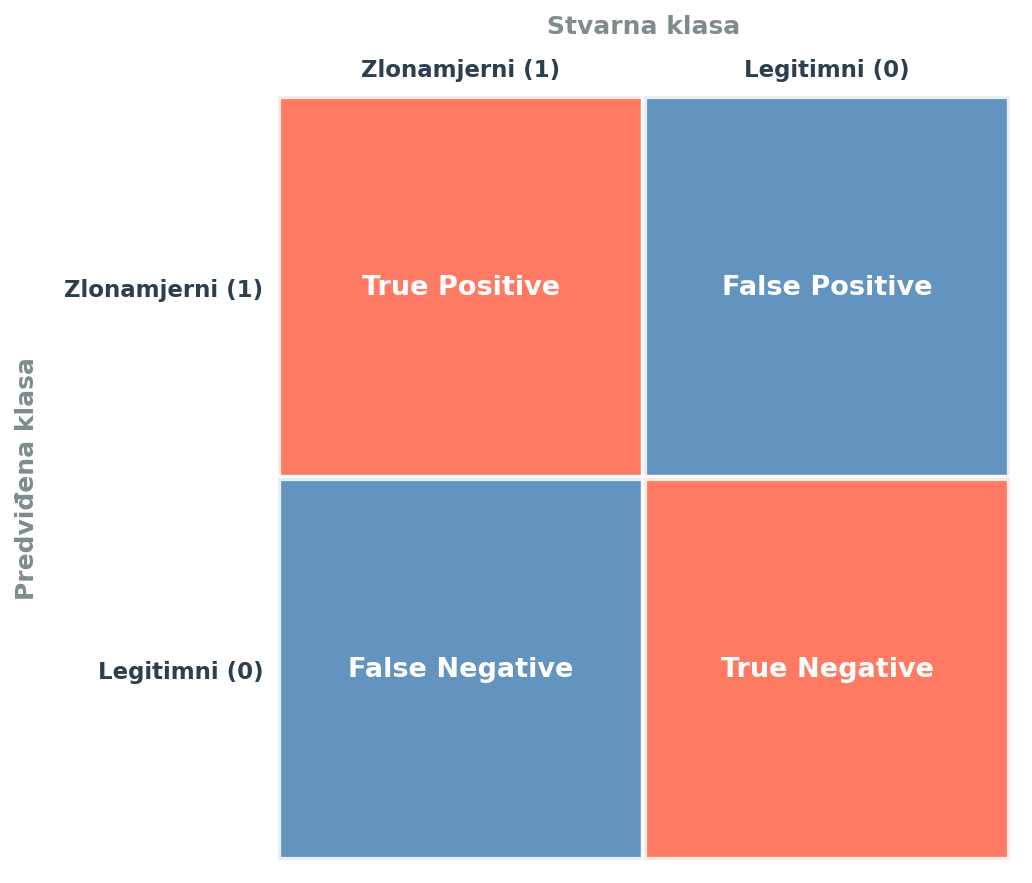
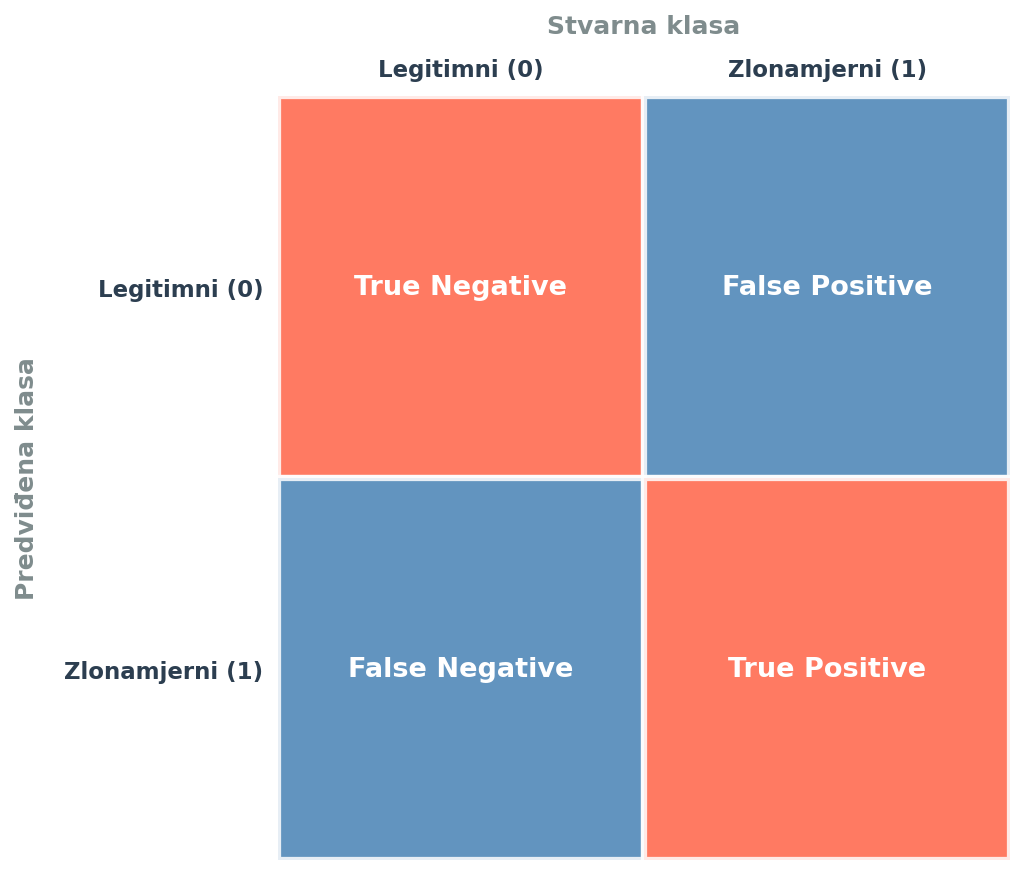
Enhanced SQL injection detection in login process with machine learning integration

diff --git a/app.py b/app.py
@@ -29,6 +29,7 @@ from functools import wraps
 from werkzeug.utils import secure_filename
 from flask_wtf.file import FileField, FileAllowed
 import uuid
+from ml.detector import detect as ml_detect
 
 # --- App Setup ---
 app = Flask(__name__)
@@ -341,6 +342,14 @@ SQLI_TAUTOLOGY_PATTERNS = [
     r"""(?i)'\s*--""",
     r"""(?i)'\s"""
 ]
+
+# Trigger za ML: ' praćen SQL operatorom/terminatorom = pravi injection signal.
+# Sama trailing ' (npr. "password'") nije napad i ne aktivira ML.
+_SQLI_TRIGGER_RE = re.compile(
+    r"'[^']*(?:--|/\*|;|\b(?:or|and|union|select|drop|insert|update|delete|exec|cast|convert|having|group|order)\b)"
+    r"|--|/\*",
+    re.IGNORECASE
+)
 
 def is_allowed_image(filename: str) -> bool:
     if not filename or "." not in filename:
@@ -1589,46 +1598,47 @@ def login():
 
         insecure_sql = f"SELECT * FROM users WHERE username='{username}' AND password_hash='{password}'"
 
+        # ML detekcija na svakom loginu — RF (nadzirano) + IF (nenadzirano)
+        ml_result = ml_detect(insecure_sql)
+        if ml_result["detected"]:
+            try:
+                log_security_event(
+                    f"ML_SQLI_DETECTED (RF={ml_result['rf_pred']}, RF_proba={ml_result['rf_proba']}, IF={ml_result['if_pred']}, IF_score={ml_result['if_score']})",
+                    username,
+                    insecure_sql
+                )
+            except Exception:
+                pass
+            return render_template("blocked.html", details=ml_result), 403
+
+        # Pokušaj ranjivog SQL-a; greška (npr. malformiran string zbog ' u lozinki)
+        # NE smije ubiti login — pravimo fallback na siguran hash check ispod.
+        row = None
         cur = db_cursor()
         try:
             cur.execute(insecure_sql)
             row = cur.fetchone()
-        except Exception as e:
-            flash(f"Database error: {str(e)}")
-            return redirect(url_for("login"), code=303)
+        except Exception:
+            row = None
         finally:
             try:
                 cur.close()
-            except:
+            except Exception:
                 pass
 
         if row:
-            try:  # ← KRITIČNO: Wrap u try-except
-                user_id = int(row.get("id", 0))
-                if user_id <= 0:
-                    raise ValueError("Invalid user ID")
-                
-                username_val = row.get("username")
-                password_hash_val = row.get("password_hash")
-                
-                if not username_val or not password_hash_val:
-                    raise ValueError("Missing user data")
-                
-                user = User(user_id, username_val, password_hash_val, row.get("is_admin", 0))
-                login_user(user, remember=True)
-                
-                if looks_like_sqli_tautology(username) or looks_like_sqli_tautology(password):
-                    try: 
-                        log_security_event("SQL_INJECTION_ATTEMPT", username, password)
-                    except Exception:
-                        pass
+            username_val = row.get("username") or ""
+            password_hash_val = row.get("password_hash") or ""
+            try:
+                user_id = int(row.get("id") or 0)
+            except (ValueError, TypeError):
+                user_id = 0
 
-                flash("Logged in.")
-                return redirect(url_for("products"), code=303)
-                
-            except (ValueError, TypeError, KeyError) as e:
-                flash("Login error - invalid data")
-                return redirect(url_for("login"), code=303)
+            user = User(user_id, username_val, password_hash_val, row.get("is_admin", 0))
+            login_user(user, remember=True)
+
+            flash(f"Welcome, {username_val}!")
+            return redirect(url_for("products"), code=303)
 
         # Fallback za normalne korisnike
         row = fetch_user_by_username(username)
@@ -1639,8 +1649,7 @@ def login():
                 flash("Logged in.")
                 return redirect(url_for("products"), code=303)
         
-        flash("Invalid credentials.")
-        return redirect(url_for("login"), code=303)
+        return render_template("login.html", form=form, login_error=f"Invalid credentials for {username}.")
 
     return render_template("login.html", form=form)
 